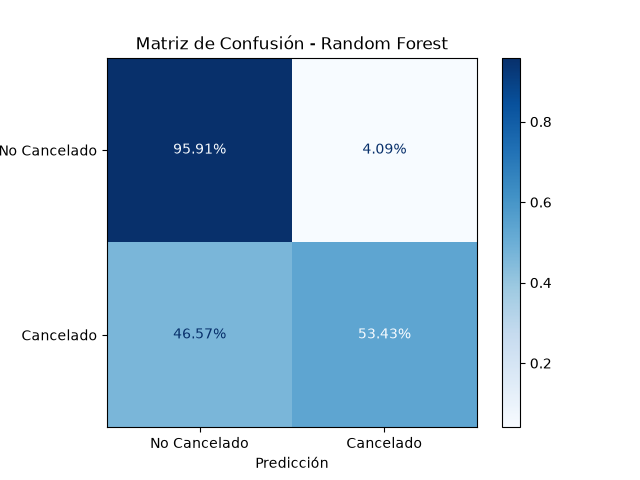
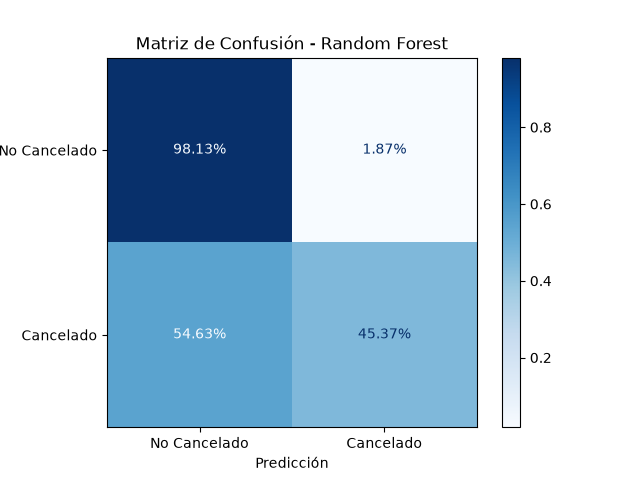
Agregado metodo para generar grafica de importancia de variables e introducido en flujo main. nuevos parametros para gridserach de random forest.

diff --git a/src/evaluator.py b/src/evaluator.py
@@ -3,13 +3,14 @@ import pandas as pd
 import numpy as np
 import seaborn as sns
 import matplotlib.pyplot as plt
-# import tensorflow as tf
-# from tensorflow.keras import layers, models
+import plotly.express as px
 from sklearn.metrics import (
     accuracy_score, confusion_matrix, ConfusionMatrixDisplay, 
     precision_score, recall_score, f1_score,  
     mean_squared_error, mean_absolute_error, r2_score, roc_auc_score
 )
+# import tensorflow as tf
+# from tensorflow.keras import layers, models
 
 def evaluar_modelos(y_test, y_pred, y_pred_proba):
 
@@ -81,6 +82,36 @@ def generar_curva_aprendizaje(history_dp):
     plt.savefig(OUTPUTS_DIR / "curva_aprendizaje.png")
     plt.close()
 
+# Visualización de la importancia de las variables
+def generar_grafica_importancia_variables(modelo_rfc, X):
+
+    col_importancia_rf = modelo_rfc.feature_importances_
+    df_importances_rf = pd.DataFrame({
+        'variable' : X.columns,
+        'importancia' : col_importancia_rf
+    })
+
+    df_importances_rf = df_importances_rf.sort_values(by='importancia', ascending=False)
+
+    # fig = px.bar(
+    #     df_importances_rf,
+    #     x='importancia',
+    #     y='variable',
+    #     text='importancia',
+    #     text_auto=".3%",
+    #     title='Importancia de las variables en el modelo Random Forest Classifier',
+    #     labels={'x': 'Importancia', 'y': 'Variable'},
+    #     width=700, height=500
+    # )
+    # fig.update_layout(xaxis_tickangle=-45)
+    # fig.write_image(OUTPUTS_DIR / "importancia_variables.png")
+    plt.figure(figsize=(10, 8))
+    sns.barplot(x='importancia', y='variable', data=df_importances_rf.head(15), palette='viridis')
+    plt.title('Top variables importantes en el modelo Random Forest Classifier')
+    plt.xlabel('Importancia')
+    plt.ylabel('Variable')
+    plt.savefig(OUTPUTS_DIR / "importancia_variables.png")
+    plt.close()
 
 # Calculamos las métricas de evaluación
 def calcular_metricas_evaluacion(y_prediccion: np.ndarray, y_real: np.ndarray, verbose: bool = True):

diff --git a/main.py b/main.py
@@ -2,7 +2,7 @@ from src.config import DICT_MODELS, IRRELEVANT_COLUMNS, RAW_DATA_PATH, PROCESSED
 from src.data_loader import cargar_datos, preparar_datos, generar_csv_datos_preprocesados 
 from src.model_trainer import dividir_datos, escalar_datos, entrenar_modelos
 from src.predictor import obtener_predicciones, obtener_predicciones_proba
-from src.evaluator import distribucion_variable_objetivo,evaluar_modelos, generar_curva_aprendizaje, generar_mapa_calor_correlacion, generar_matriz_confusion
+from src.evaluator import distribucion_variable_objetivo,evaluar_modelos, generar_curva_aprendizaje, generar_grafica_importancia_variables, generar_mapa_calor_correlacion, generar_matriz_confusion
 from tensorflow.keras import layers, models
 import tensorflow as tf
 
@@ -35,6 +35,9 @@ def main():
 
     print("\n[7/9] Entrenando modelos...")
     trained_models = entrenar_modelos(models, X_train, y_train)
+
+    print("\nGenerando gráfica de importancia de variables...")
+    generar_grafica_importancia_variables(trained_models['Random Forest'], df_preprocessed.drop(columns=TARGET_COLUMN))
 
     print("\n[8/9] Obteniendo predicciones de los modelos...")
     predictions = obtener_predicciones(trained_models, X_test)
@@ -96,6 +99,3 @@ def keras_model(X_train, y_train, X_test, y_test):
 
 if __name__ == "__main__":
     main()
-
-
-#df_preprocessed.drop(columns=target_column)

diff --git a/src/config.py b/src/config.py
@@ -29,19 +29,25 @@ IRRELEVANT_COLUMNS = [
 ]
 
 DICT_MODELS = {
-    'Decision Tree': DecisionTreeClassifier(random_state=42),
+    # 'Decision Tree': DecisionTreeClassifier(random_state=42),
     'Random Forest': RandomForestClassifier(random_state=42),
-    'LightGBM': LGBMClassifier(random_state=42),
-    'Logistic Regression': LogisticRegression(random_state=42),
-    'Gradient Boosting': GradientBoostingClassifier(random_state=42),
+    # 'LightGBM': LGBMClassifier(random_state=42),
+    # 'Logistic Regression': LogisticRegression(random_state=42),
+    # 'Gradient Boosting': GradientBoostingClassifier(random_state=42),
 }
 
 DICT_MODEL_PARAMS = {
     'RandomForestClassifier': {
         #'n_estimators': [50, 100, 200],
-        'n_estimators': [10],
-        #'max_depth': [8, 12, 16, 25, 30, 35, 40, 45, 50]
-        'max_depth': [8, 12, 16]
+        #'max_depth': [8, 12, 16, 25, 30, 35, 40, 45, 50],
+        #'min_samples_leaf': [1, 2, 4],
+        #min_samples_split': [2, 5, 10],
+        #'n_jobs': [-1]
+        'max_depth': [4, 8, 12],
+        'n_estimators': [10, 20, 30],
+        'min_samples_leaf': [1, 2, 4],
+        'min_samples_split': [2, 5, 8],
+        'n_jobs': [-1]
     },
     'DecisionTreeClassifier': {
         #'max_depth': [8, 12, 16, 25, 30, 35, 40, 45, 50]
